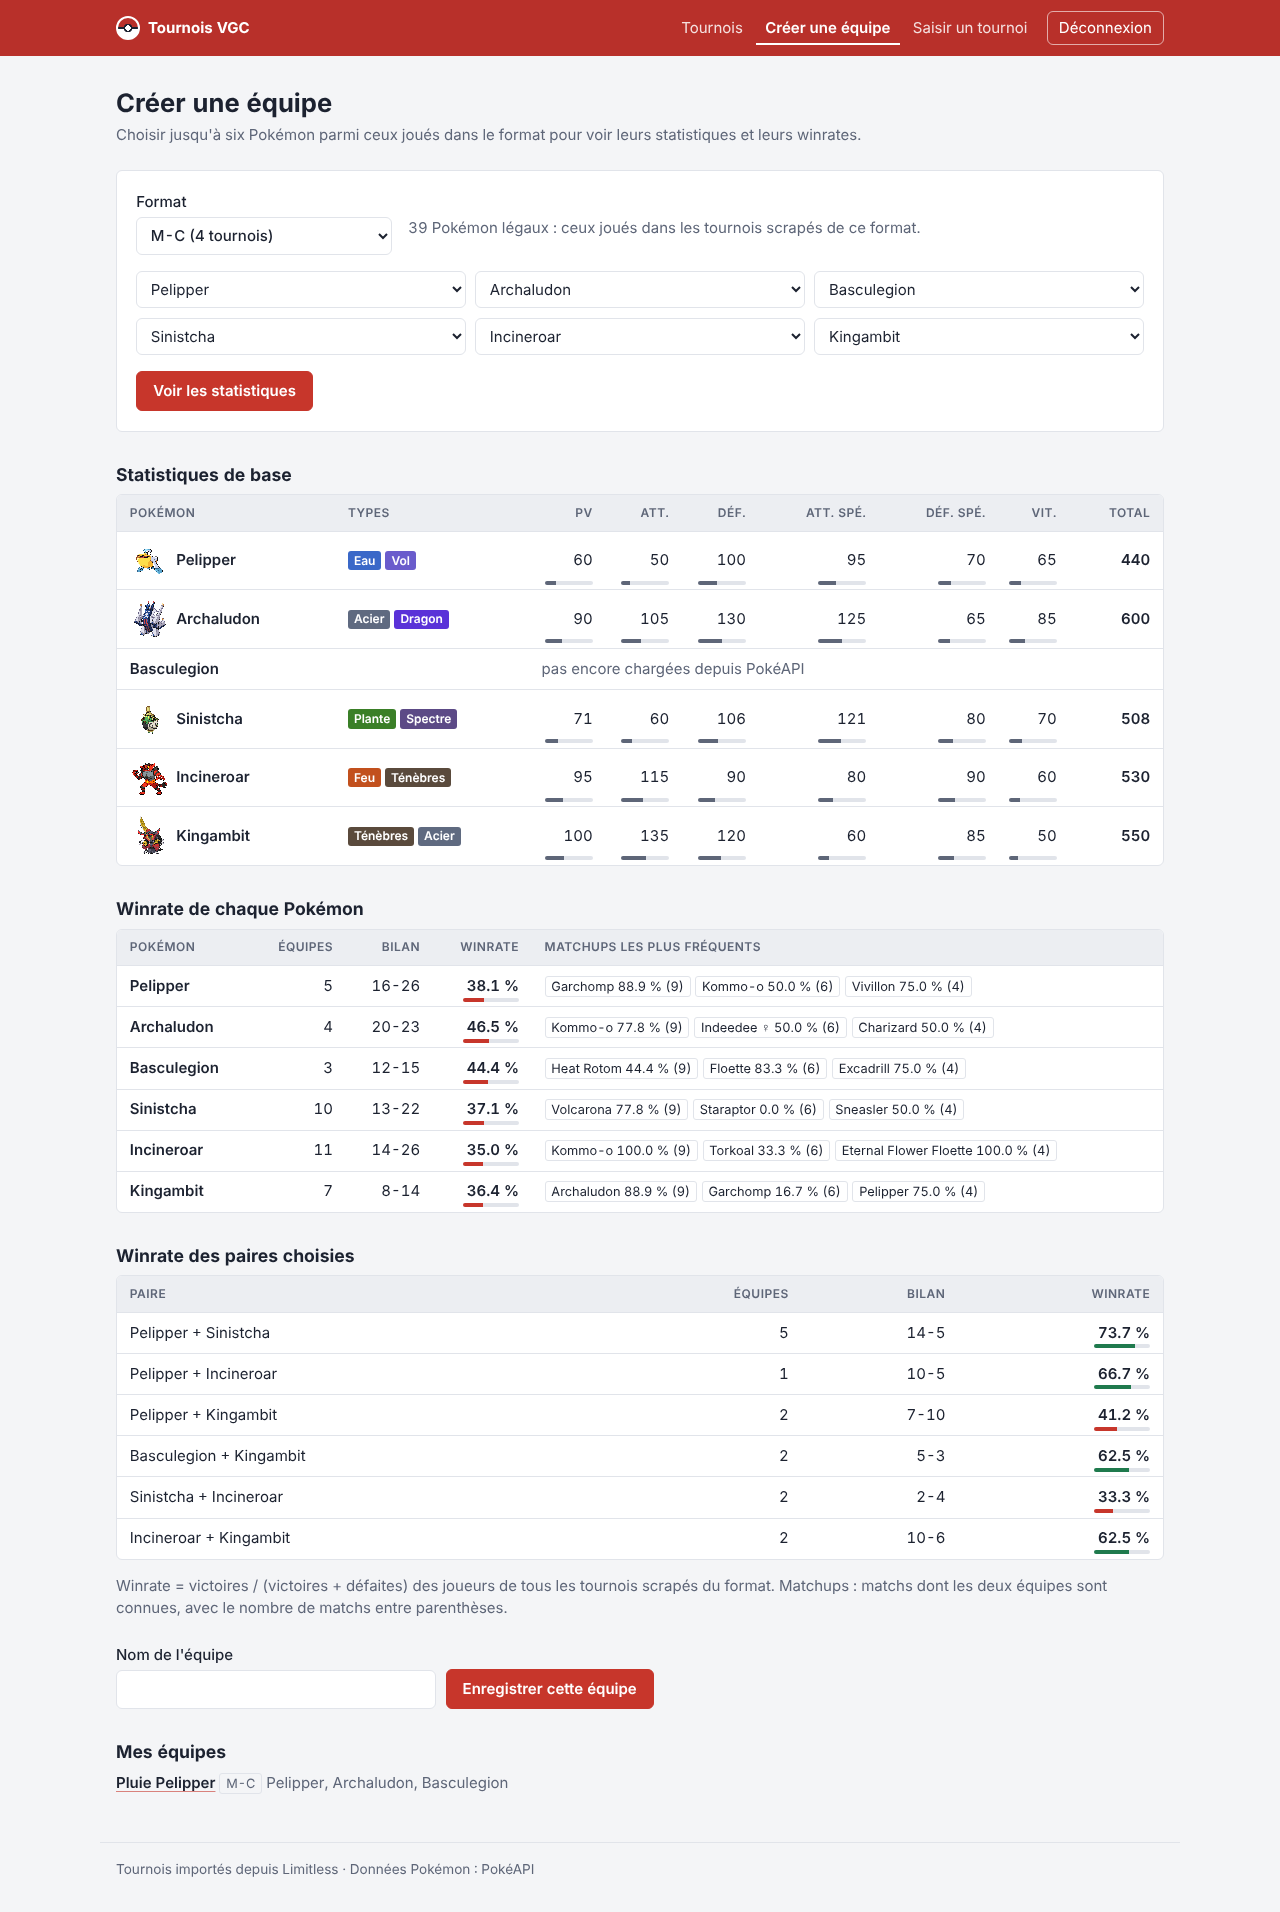
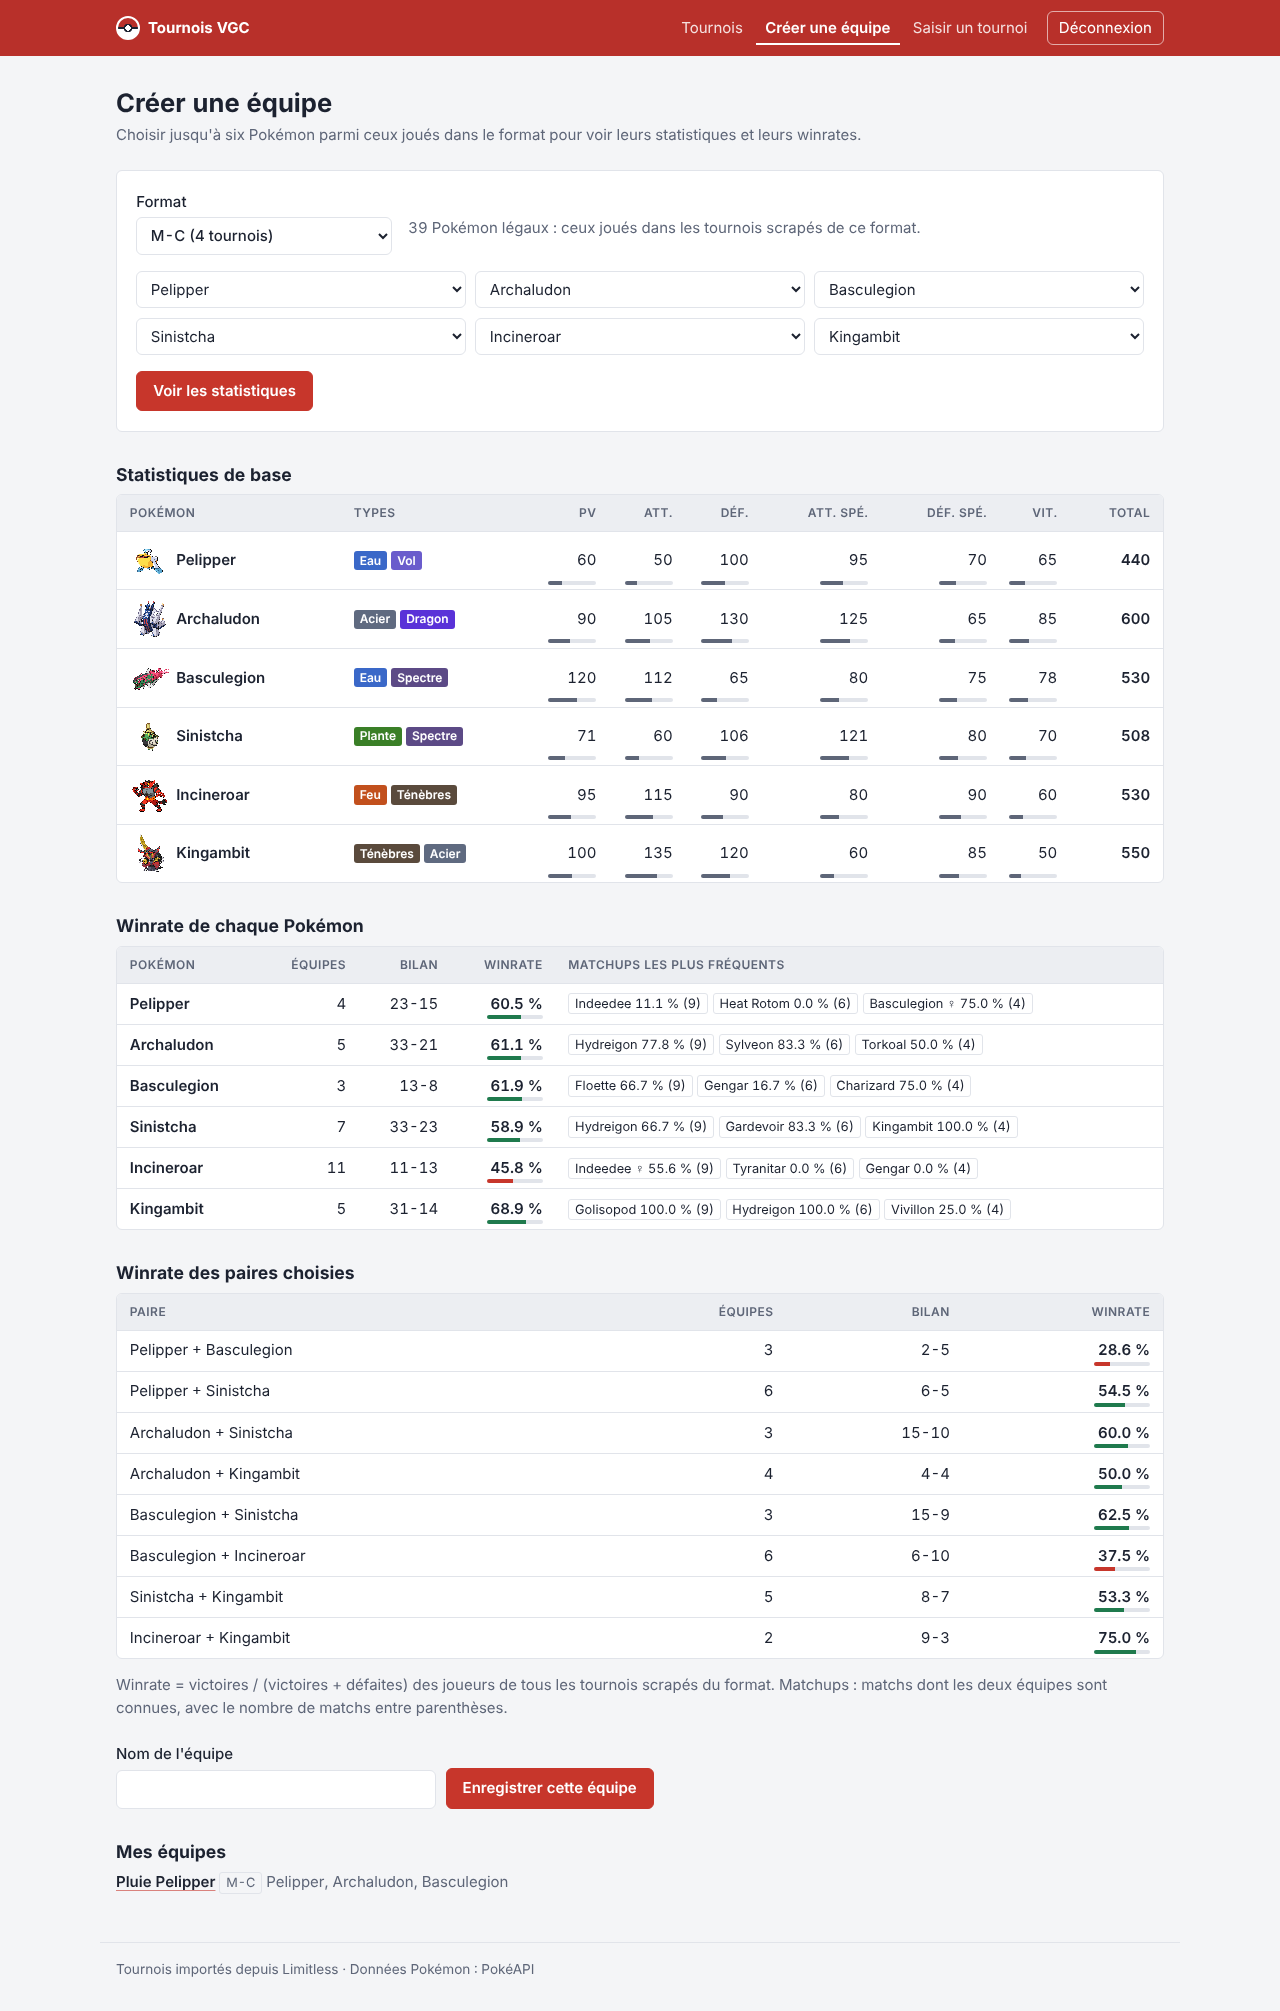
style(frontend): jauge des statistiques de base sur 200
Sur 255 (le maximum absolu, atteint par très peu de Pokémon), une
statistique de 130 ne remplissait que la moitié de la jauge. Sur 200,
plafonnée à 100 %, les valeurs courantes se lisent mieux.
Captures refaites avec les sprites d'Indeedee et Basculegion.

diff --git a/services/frontend/app/static/style.css b/services/frontend/app/static/style.css
@@ -177,13 +177,13 @@ fieldset label { flex-direction: row; align-items: center; gap: 0.5rem; font-wei
 .toolbar { display: flex; flex-wrap: wrap; align-items: end; gap: 1rem; }
 .toolbar label { width: 16rem; max-width: 100%; }
 .mon-name { display: flex; align-items: center; gap: 0.4rem; font-weight: 600; white-space: nowrap; }
-/* Petites jauges sous les nombres : statistique de base (sur 255) et winrate (sur 100 %) */
+/* Petites jauges sous les nombres : statistique de base (sur 200) et winrate (sur 100 %) */
 .stat, .rate { position: relative; }
 .stat::after, .rate::after {
   content: ""; position: absolute; right: 0.8rem; bottom: 0.3rem; width: var(--len); height: 4px; border-radius: 2px;
   background: linear-gradient(90deg, var(--fill) var(--pct), var(--line) 0);
 }
-.stat { --len: 3rem; --fill: var(--muted); --pct: calc(var(--v) * 100% / 255); }
+.stat { --len: 3rem; --fill: var(--muted); --pct: min(100%, calc(var(--v) * 100% / 200)); } /* 200 et plus = jauge pleine */
 .rate { --len: 3.5rem; --fill: var(--win); --pct: calc(var(--w) * 1%); }
 .rate.low { --fill: var(--accent); } /* sous 50 % */
 .matchups { display: flex; flex-wrap: wrap; gap: 0.3rem; }
